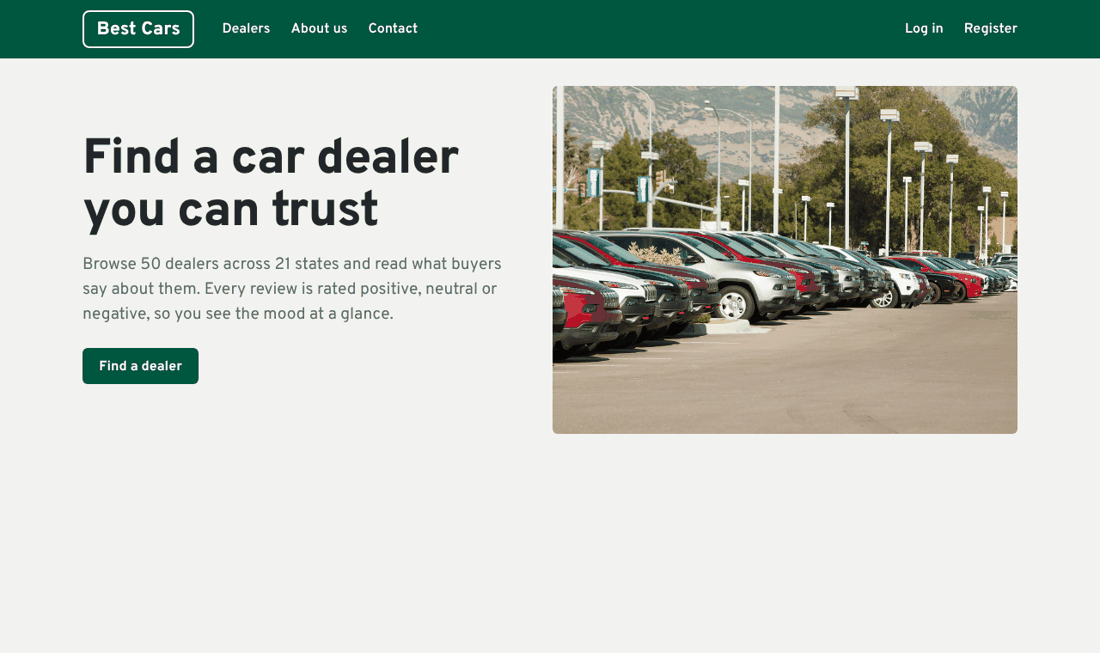
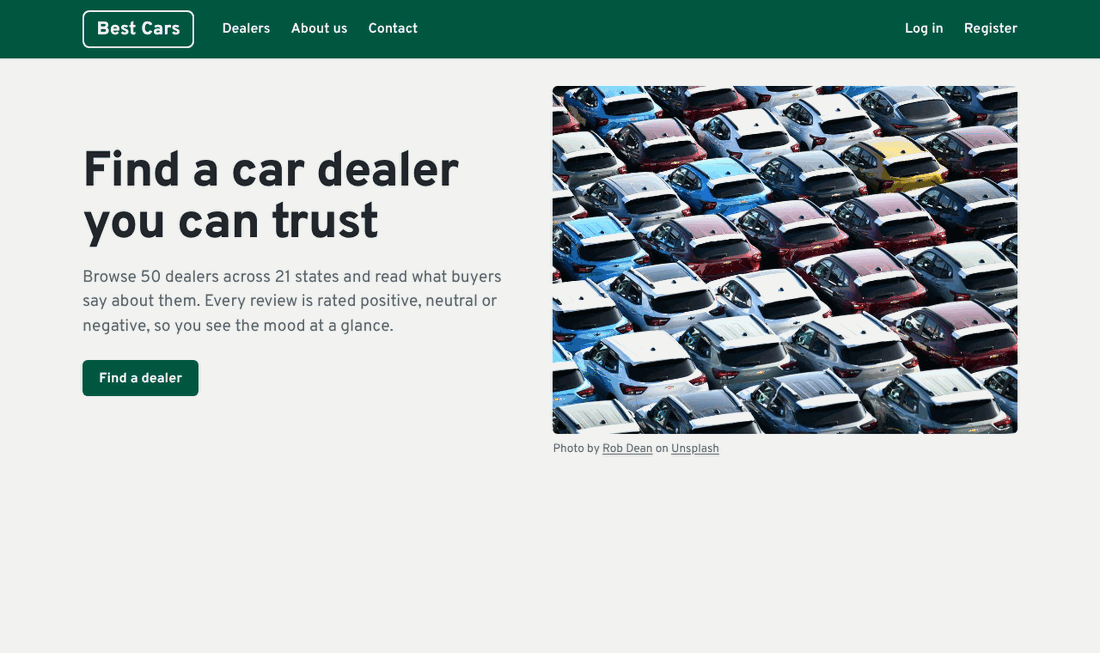
Replace the home page photo with a credited Unsplash photo
The template's car_dealership.jpg named a Flickr page that no longer
exists, so its photographer and license could not be confirmed.

- New photo: "Rows of new cars parked in a large lot" by Rob Dean on
  Unsplash, used under the Unsplash License, resized to 1200 x 800.
  The credit is also stored in the file's EXIF data
- Credit shown under the photo, in the README and on the demo's
  licenses page
- README: updated home screenshot and lists of added and removed files

Changed region(s): [[0.4945, 0.1225, 0.9273, 0.7044], [0.0618, 0.2144, 0.4636, 0.6126]]

diff --git a/server/frontend/scripts/build-demo-site.js b/server/frontend/scripts/build-demo-site.js
@@ -89,6 +89,10 @@ fs.writeFileSync(path.join(site, "licenses.html"), `<!DOCTYPE html>
   <h2 class="section-title">Overpass typeface</h2>
   <p>SIL Open Font License 1.1, Copyright 2021 The Overpass Project Authors.
     <a href="static/fonts/OFL.txt">License text</a>.</p>
+  <h2 class="section-title">Home page photo</h2>
+  <p>"Rows of new cars parked in a large lot" by <a href="https://unsplash.com/@robhdean">Rob Dean</a>,
+    from <a href="https://unsplash.com/photos/rows-of-new-cars-parked-in-a-large-lot-1h491Giz9CU">Unsplash</a>,
+    used under the <a href="https://unsplash.com/license">Unsplash License</a>. Resized for the web.</p>
   <h2 class="section-title">React, React Router and other libraries in the app</h2>
   <p>Their license notices are collected in <a href="app/static/js/${jsLicenses}">app/static/js/${jsLicenses}</a>.</p>
 </main>

diff --git a/server/frontend/static/Home.html b/server/frontend/static/Home.html
@@ -41,7 +41,10 @@
         <p class="hero-text">Browse 50 dealers across 21 states and read what buyers say about them. Every review is rated positive, neutral or negative, so you see the mood at a glance.</p>
         <a class="button" href="/dealers">Find a dealer</a>
       </div>
-      <img class="hero-image" src="/static/car_dealership.jpg" alt="Cars lined up at a dealership">
+      <figure class="hero-figure">
+        <img class="hero-image" src="/static/rows-of-cars.jpg" width="1200" height="800" alt="Rows of new cars parked in a large lot, seen from above">
+        <figcaption class="photo-credit">Photo by <a href="https://unsplash.com/@robhdean">Rob Dean</a> on <a href="https://unsplash.com/photos/rows-of-new-cars-parked-in-a-large-lot-1h491Giz9CU">Unsplash</a></figcaption>
+      </figure>
     </section>
   </main>
 </body>

diff --git a/server/frontend/src/theme.css b/server/frontend/src/theme.css
@@ -314,13 +314,19 @@ a:hover { color: var(--sign-green-dark); }
 
 .hero-text { font-size: 1.2rem; color: var(--muted); max-width: 32rem; margin: 1rem 0 1.5rem; }
 
+.hero-figure { margin: 0; }
+
 .hero-image {
   width: 100%;
+  height: auto;
   border-radius: var(--radius);
   display: block;
   aspect-ratio: 4 / 3;
   object-fit: cover;
 }
+
+.photo-credit { margin-top: 0.5rem; font-size: 0.85rem; color: var(--muted); }
+.photo-credit a { color: inherit; }
 
 .team {
   display: grid;
@@ -361,5 +367,6 @@ a:hover { color: var(--sign-green-dark); }
 
 @media (max-width: 48rem) {
   .hero { grid-template-columns: 1fr; }
-  .hero-image { order: -1; aspect-ratio: 16 / 9; }
+  .hero-figure { order: -1; }
+  .hero-image { aspect-ratio: 16 / 9; }
 }

diff --git a/server/frontend/static/theme.css b/server/frontend/static/theme.css
@@ -314,13 +314,19 @@ a:hover { color: var(--sign-green-dark); }
 
 .hero-text { font-size: 1.2rem; color: var(--muted); max-width: 32rem; margin: 1rem 0 1.5rem; }
 
+.hero-figure { margin: 0; }
+
 .hero-image {
   width: 100%;
+  height: auto;
   border-radius: var(--radius);
   display: block;
   aspect-ratio: 4 / 3;
   object-fit: cover;
 }
+
+.photo-credit { margin-top: 0.5rem; font-size: 0.85rem; color: var(--muted); }
+.photo-credit a { color: inherit; }
 
 .team {
   display: grid;
@@ -361,5 +367,6 @@ a:hover { color: var(--sign-green-dark); }
 
 @media (max-width: 48rem) {
   .hero { grid-template-columns: 1fr; }
-  .hero-image { order: -1; aspect-ratio: 16 / 9; }
+  .hero-figure { order: -1; }
+  .hero-image { aspect-ratio: 16 / 9; }
 }

diff --git a/README.md b/README.md
@@ -176,7 +176,7 @@ each one in detail. Changed files that allow comments also say so in their first
 </details>
 
 <details>
-<summary>Files added (28, plus the screenshots in docs/)</summary>
+<summary>Files added (29, plus the screenshots in docs/)</summary>
 
 - `.flake8`
 - `.github/workflows/ci.yml`
@@ -205,14 +205,15 @@ each one in detail. Changed files that allow comments also say so in their first
 - `server/frontend/static/fonts/OFL.txt`
 - `server/frontend/static/fonts/overpass-latin-wght-normal.woff2`
 - `server/frontend/static/nav.js`
+- `server/frontend/static/rows-of-cars.jpg`
 - `server/frontend/static/theme.css`
 
 </details>
 
 <details>
-<summary>Files removed (21)</summary>
+<summary>Files removed (22)</summary>
 
-The template's Bootstrap copies, old stylesheets and icon images, replaced by the new design:
+The template's Bootstrap copies, old stylesheets and images, replaced by the new design:
 
 - `confirm.png`
 - `server/frontend/src/components/Dealers/Dealers.css`
@@ -231,6 +232,7 @@ The template's Bootstrap copies, old stylesheets and icon images, replaced by th
 - `server/frontend/src/components/assets/reviewicon.png`
 - `server/frontend/src/components/assets/style.css`
 - `server/frontend/static/bootstrap.min.css`
+- `server/frontend/static/car_dealership.jpg`
 - `server/frontend/static/cars.jpeg`
 - `server/frontend/static/contactus.png`
 - `server/frontend/static/person.png`
@@ -244,3 +246,9 @@ The template's Bootstrap copies, old stylesheets and icon images, replaced by th
 Developer Skills Network. The Overpass typeface is included under the SIL Open Font License
 ([`server/frontend/static/fonts/OFL.txt`](server/frontend/static/fonts/OFL.txt)). "Best Cars" and its staff are fictional; the dealer and review data
 is sample data from the template.
+
+The home page photo, [`server/frontend/static/rows-of-cars.jpg`](server/frontend/static/rows-of-cars.jpg), is
+"Rows of new cars parked in a large lot" by [Rob Dean](https://unsplash.com/@robhdean) on
+[Unsplash](https://unsplash.com/photos/rows-of-new-cars-parked-in-a-large-lot-1h491Giz9CU), used under the
+[Unsplash License](https://unsplash.com/license) and resized for the web. It replaces the template's
+`car_dealership.jpg`, whose source and license could not be confirmed.
